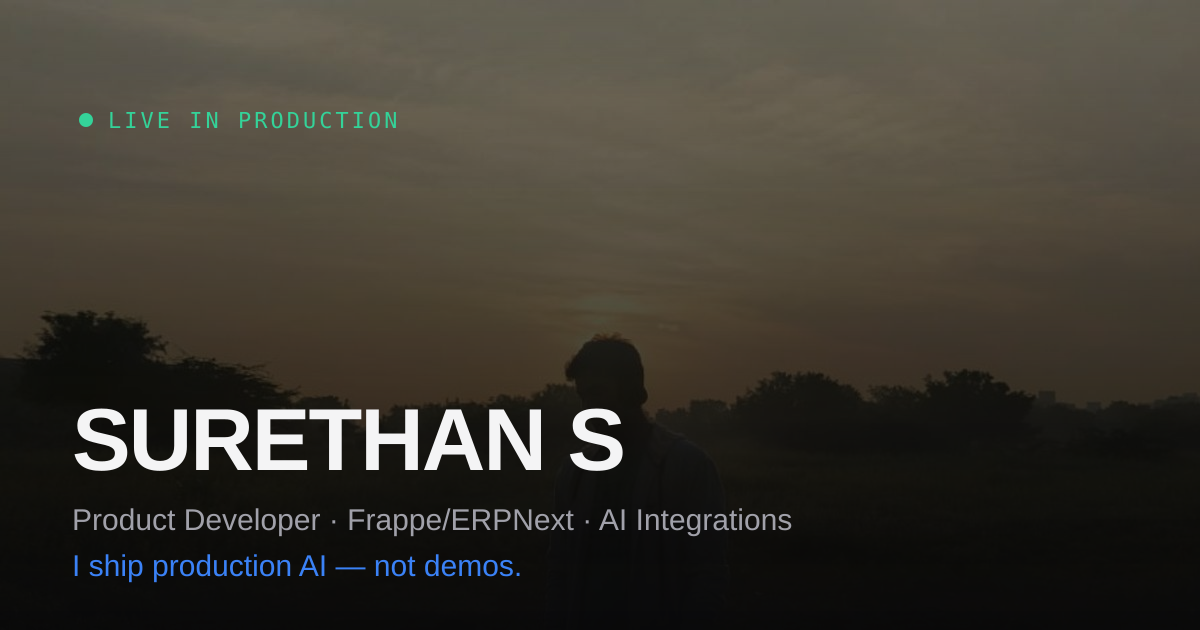
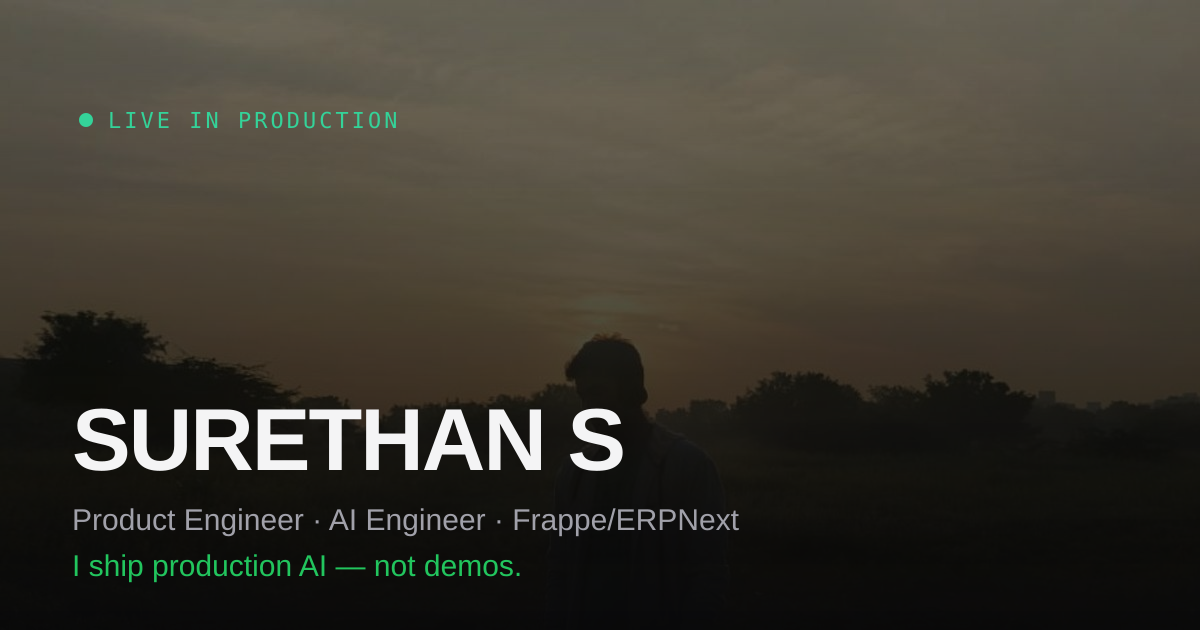
Brand: Product Engineer & AI Engineer everywhere
Retitle from "Product Developer" across the page title, meta and social
descriptions, the Person structured data (now with jobTitle, description,
image and knowsAbout), the hero roles, about copy, journey entry, READMEs
and the regenerated OG image. Sitemap lastmod bumped for recrawl.

Claude-Session: https://claude.ai/code/session_01JnBBBfXPCEZDv1YZLGNZMa

Changed region(s): [[0.1542, 0.7841, 0.6783, 0.8444], [0.0617, 0.8746, 0.4317, 0.9349]]

diff --git a/app/data.php b/app/data.php
@@ -65,7 +65,7 @@ return [
         'name'      => 'Surethan S',
         'nameMain'  => 'SURETHAN',
         'nameTail'  => 'S',
-        'roles'     => ['AI Systems Engineer', 'Product Engineer', 'Prompt Engineer', 'Platform Engineer — Frappe/ERPNext', 'MCP & Agent Developer'],
+        'roles'     => ['Product Engineer', 'AI Engineer', 'Prompt Engineer', 'Platform Engineer — Frappe/ERPNext', 'MCP & Agent Developer'],
         'tagline'   => 'I ship production AI — not demos.',
         'subline'   => 'Voice agents that qualify every sales lead. Multi-agent pipelines that turn university syllabi into living learning platforms. All deployed, all in daily use.',
         'location'  => 'Bengaluru, India',
@@ -80,7 +80,7 @@ return [
         'heading' => 'From lecture halls to production logs.',
         'aside'   => 'Three years into a five-year degree, the pull of real users beat the pull of a diploma.',
         'paragraphs' => [
-            "I'm a product developer at Selfmade Ninja Academy in Bengaluru — a tech academy and cloud-labs platform teaching programming, Linux and cybersecurity, with its whole business running on Frappe/ERPNext.",
+            "I'm a product engineer and AI engineer at Selfmade Ninja Academy in Bengaluru — a tech academy and cloud-labs platform teaching programming, Linux and cybersecurity, with its whole business running on Frappe/ERPNext.",
             'I finished school in Erode, joined the 5-year integrated M.Sc. Software Systems programme at Kongu Engineering College — and after three years, left to build products full-time. Months later, my code was qualifying every sales lead the academy gets and generating lessons for thousands of learners.',
             "My discipline is production-grade AI engineering: prompt systems that hold up against noisy real-world speech, data pipelines that fail safely without losing a record, telephony that never deadlocks, and attribution that ad platforms verify and trust.",
         ],

diff --git a/app/config.php b/app/config.php
@@ -12,8 +12,8 @@ if (!defined('APP_BOOT')) {
 /* ------------------------------------------------------------------ */
 
 const SITE_NAME   = 'Surethan S';
-const SITE_TITLE  = 'Surethan S — Product Developer · AI Engineer';
-const SITE_DESC   = 'Product developer at Selfmade Ninja Academy, Bengaluru. Ships production AI end-to-end: an autonomous voice agent that qualifies every sales lead, and a 5-agent LLM pipeline turning university syllabi into learning platforms.';
+const SITE_TITLE  = 'Surethan S — Product Engineer & AI Engineer';
+const SITE_DESC   = 'Surethan S is a Product Engineer and AI Engineer at Selfmade Ninja Academy, Bengaluru, shipping production AI voice agents, payments and LLM pipelines.';
 const SITE_URL    = 'https://surethan.zeal.ninja';
 const CONTACT_TO  = 'surethan37@gmail.com';
 

diff --git a/app/partials/head.php b/app/partials/head.php
@@ -77,7 +77,11 @@
     '@type'    => 'Person',
     'name'     => SITE_NAME,
     'alternateName' => ['Surethan', 'Surethan S'],
-    'jobTitle' => 'Product Developer',
+    'jobTitle' => ['Product Engineer', 'AI Engineer'],
+    'description' => SITE_DESC,
+    'image'    => SITE_URL . '/assets/images/portrait-square.webp',
+    'knowsAbout' => ['Product engineering', 'AI engineering', 'LLM agents', 'Voice AI', 'Frappe / ERPNext', 'Payment systems', 'Python'],
+    'mainEntityOfPage' => SITE_URL . '/',
     'worksFor' => ['@type' => 'Organization', 'name' => $identity['company']],
     'email'    => 'mailto:' . $identity['email'],
     'url'      => SITE_URL,

diff --git a/app/partials/about.php b/app/partials/about.php
@@ -29,7 +29,7 @@
         </figure>
         <div class="fact-chip glass" data-reveal>
           <p class="fc-k">Currently</p>
-          <p class="fc-v">Product Dev <span class="accent">@</span> Selfmade Ninja</p>
+          <p class="fc-v">Product Engineer <span class="accent">@</span> Selfmade Ninja</p>
         </div>
       </div>
 

diff --git a/content/README.md b/content/README.md
@@ -191,7 +191,7 @@ jq '. + [{"period": "2027 — Present", "title": "Role", "org": "Company",
   "place": "City", "body": "What you built.", "tag": "CURRENT"}]' \
   content/timeline.json > /tmp/j && mv /tmp/j content/timeline.json
 # clear CURRENT from the previous entry (match its title)
-jq '(.[] | select(.title == "Product Developer") | .tag) = ""' content/timeline.json > /tmp/j && mv /tmp/j content/timeline.json
+jq '(.[] | select(.title == "Product Engineer") | .tag) = ""' content/timeline.json > /tmp/j && mv /tmp/j content/timeline.json
 
 # ---- Projects --------------------------------------------------------
 jq '. + [{"id": "my-project", "index": "007", "name": "My Project",

diff --git a/README.md b/README.md
@@ -1,6 +1,6 @@
 # Surethan S — Portfolio
 
-Cinematic dark-first portfolio for **Surethan S** — Product Developer · Frappe/ERPNext · AI Integrations.
+Cinematic dark-first portfolio for **Surethan S** — Product Engineer · AI Engineer · Frappe/ERPNext.
 Live at **[surethan.zeal.ninja](https://surethan.zeal.ninja)**.
 
 Pure **PHP 8 + vanilla JS** — no frontend framework, no build step at runtime, no third-party
